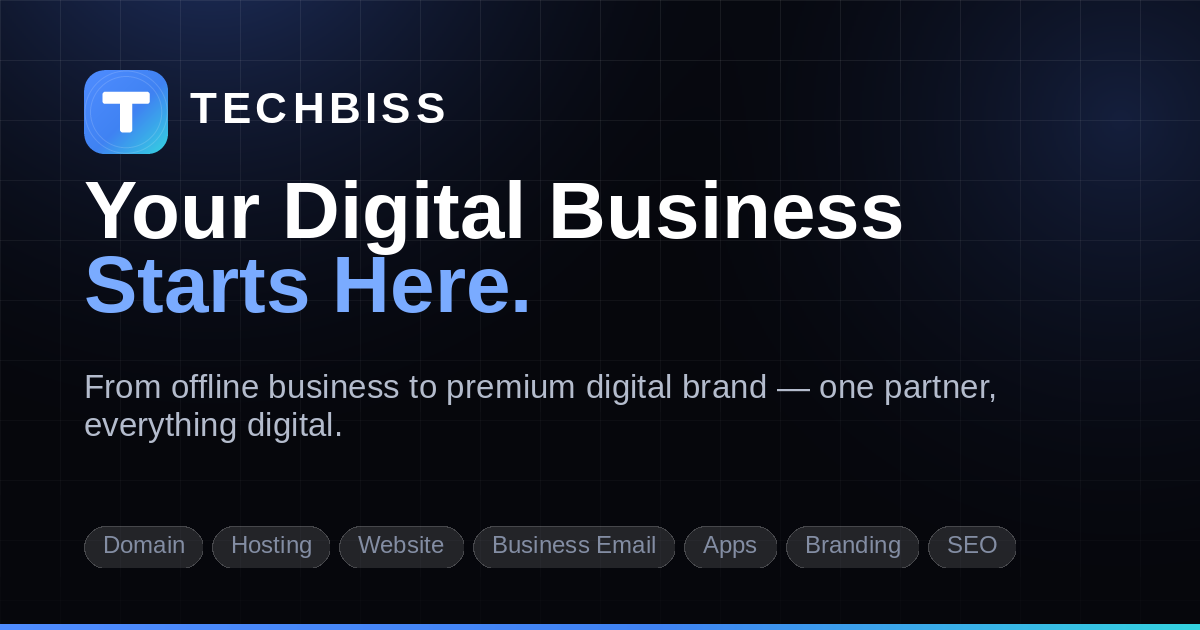
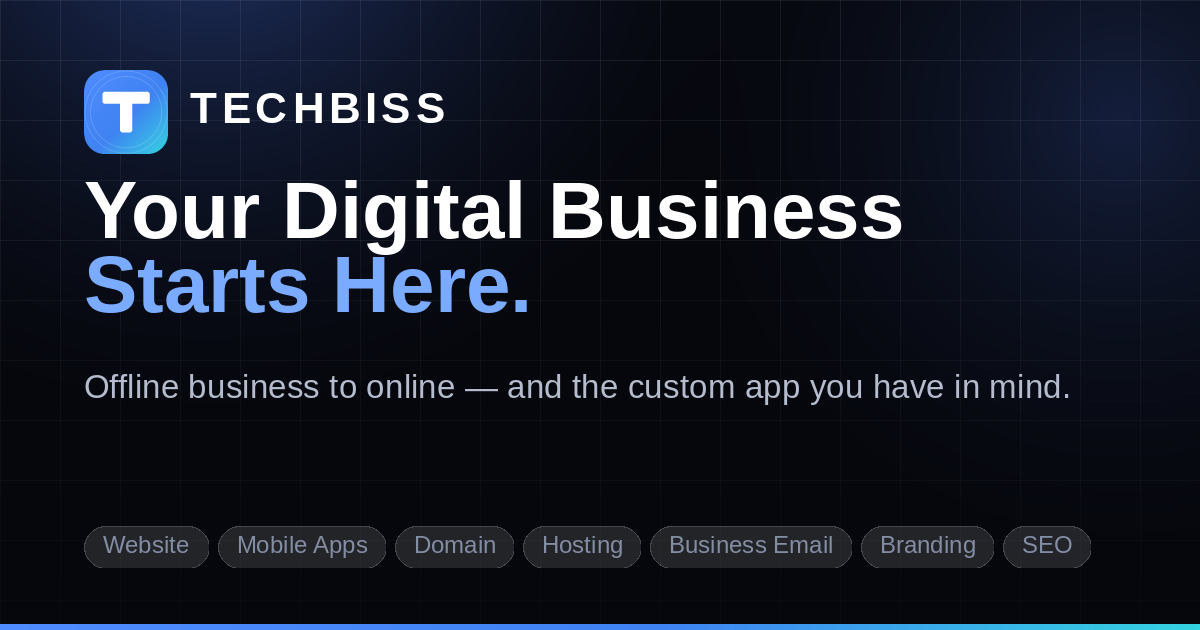
Lead with both promises: offline to online, and the app you want built
The site said one thing — it takes an offline business online — and left app
work as the fourth item in a services list, not featured on the homepage at all.
Someone arriving wanting an app built had no reason to think we do that.

Both promises are now in the first thing anyone reads:

  hero        "We take offline businesses online — domain, website, email,
               branding, SEO — and build the custom app you have in mind."
  eyebrow     "One partner. Websites and apps."
  services    "Ten services — your domain and website, custom web and mobile
               apps, and the work that keeps them running."

Mobile Applications is now featured, and sits third in the order beside the
website service rather than fourth and hidden, so it appears in the homepage
grid. Its own copy leads with the offer rather than the technology: bring the
idea, we say what it takes to build, what it does on day one and what can wait,
then ship it to both stores and handle the releases.

The meta description carried the old positioning too. Rewritten to say both, and
cut to 152 characters so search results show the whole thing rather than
truncating it mid-sentence.

The social card is regenerated to match: "Offline business to online — and the
custom app you have in mind", with Website and Mobile Apps leading the chips.

seed.sql covers a fresh install; copy-refresh.sql carries the same changes to a
site already running, including the featured flag and the reordering. As before,
[…]

Changed region(s): [[0.0925, 0.8143, 0.925, 0.9048], [0.0617, 0.573, 0.8942, 0.6333], [0.0617, 0.6635, 0.2775, 0.6937]]

diff --git a/tools/make-brand-assets.php b/tools/make-brand-assets.php
@@ -440,8 +440,8 @@ echo "\nSocial\n";
 makeOgImage(
     'og-image.png',
     'Your Digital Business Starts Here.',
-    'From offline business to premium digital brand — one partner, everything digital.',
-    ['Domain', 'Hosting', 'Website', 'Business Email', 'Apps', 'Branding', 'SEO']
+    'Offline business to online — and the custom app you have in mind.',
+    ['Website', 'Mobile Apps', 'Domain', 'Hosting', 'Business Email', 'Branding', 'SEO']
 );
 
 echo "\nDone. Assets written to assets/images/brand/\n";
